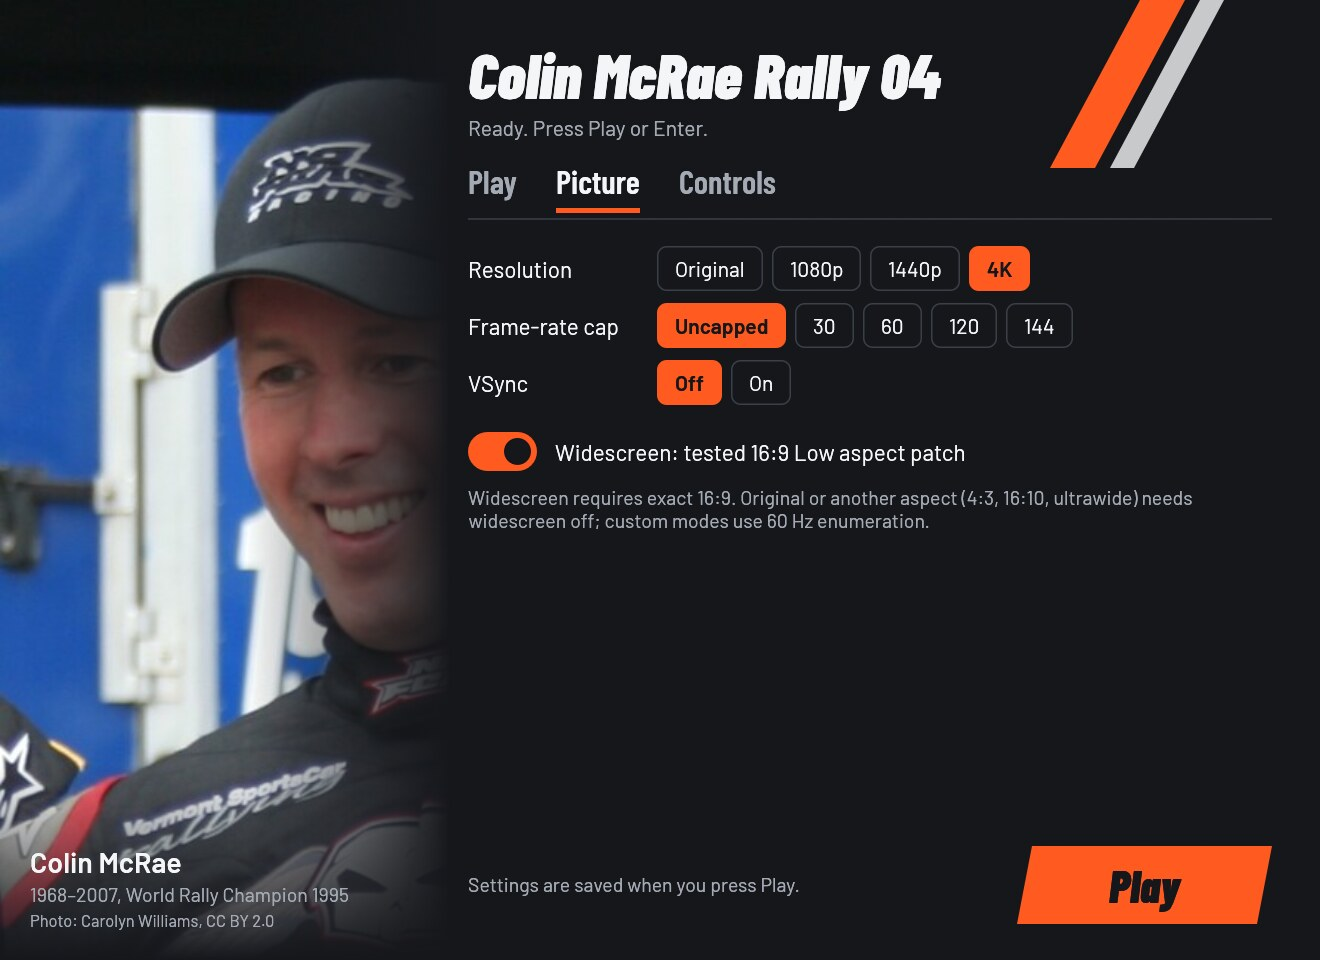
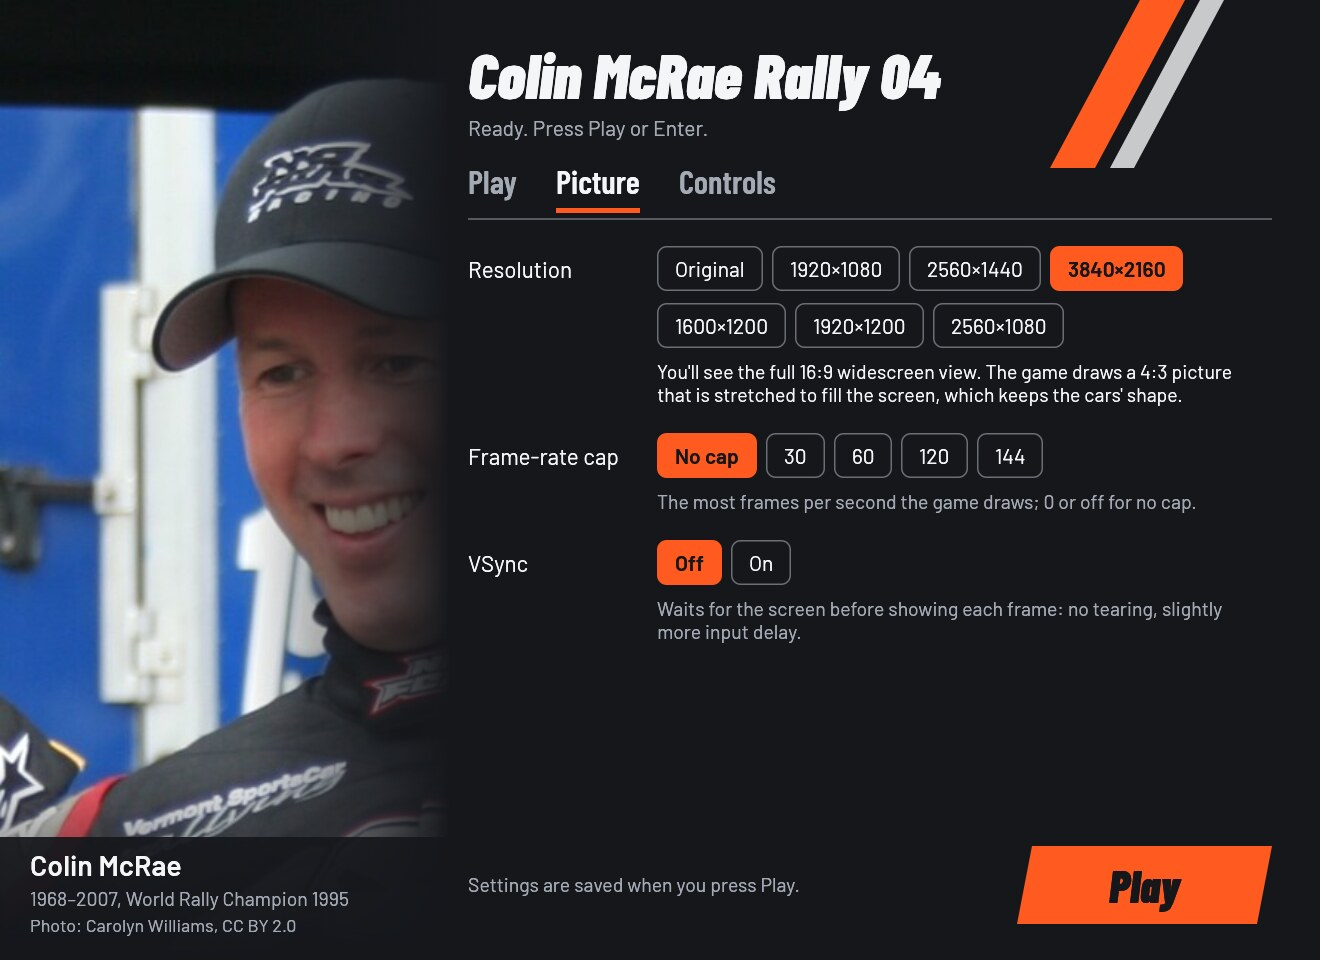
docs: retake the settings-window screenshots
The Picture tab was reworked and the 4K look card is now Widescreen.
Retaken headless (private Xvfb at 3840x2160, Wine at 96 DPI, a throwaway
prefix pointed at an installed game), so the Play tab shows the detected
cmr4.exe 1.0.0.0. Adds the Controls tab to the README.

diff --git a/THIRD_PARTY.md b/THIRD_PARTY.md
@@ -38,7 +38,7 @@ personality rights for the people shown.
 
 | File | What | Author and licence |
 | --- | --- | --- |
-| `docs/images/launcher-play.jpg`, `docs/images/launcher-picture.jpg` | The settings window (our own UI; the photo in it as above) | this project, MIT OR Apache-2.0 |
+| `docs/images/launcher-play.jpg`, `docs/images/launcher-picture.jpg`, `docs/images/launcher-controls.jpg` | The settings window (our own UI; the photo in it as above) | this project, MIT OR Apache-2.0 |
 | `docs/images/gameplay.jpg` | A screenshot of Colin McRae Rally 04 running through the launcher | game imagery © Codemasters; captured by the project owner to show the launcher at work |
 | Showcase video and poster (hosted at `new-uploads-akitaonrails.s3.us-east-2.amazonaws.com`, linked from the README, not in the repository) | Gameplay recorded by the project owner | game imagery © Codemasters |
 

diff --git a/README.md b/README.md
@@ -37,9 +37,9 @@ analogue triggers. Click to watch (2⅓ minutes, with sound).*
 
 ## Screenshots
 
-| Play | Picture |
-| --- | --- |
-| ![The Play tab with the game folder, the four looks and the private copy folder](docs/images/launcher-play.jpg) | ![The Picture tab with the resolutions, the frame-rate cap and VSync](docs/images/launcher-picture.jpg) |
+| Play | Picture | Controls |
+| --- | --- | --- |
+| ![The Play tab with the game folder, the four looks and the private copy folder](docs/images/launcher-play.jpg) | ![The Picture tab with the resolutions, the frame-rate cap and VSync](docs/images/launcher-picture.jpg) | ![The Controls tab with the gamepad switch and what the game sees](docs/images/launcher-controls.jpg) |
 
 ![Colin McRae Rally 04 in a stage at 16:9, driven with a gamepad](docs/images/gameplay.jpg)
 

diff --git a/docs/RUNTIME_NOTES.md b/docs/RUNTIME_NOTES.md
@@ -169,7 +169,8 @@ cover these; none has been run in the game yet.
 - **Settings window:** the reworked Picture tab, the Widescreen look card
   and Ctrl+Tab between tabs were only tested headless; look at them once
   in a real window under Wine and on Windows (the screenshots in
-  `docs/images/launcher*.jpg` predate the rework).
+  `docs/images/launcher-*.jpg` were retaken on 2026-11-02 from this build,
+  headless: Xvfb at 3840x2160, Wine at 96 DPI, window at 1.5x).
 - **`launcher.log`** starts afresh past 1 MiB (it never did before).
 
 ### rea-launcher-sdk v0.3.0 bump (2026-11-02)
